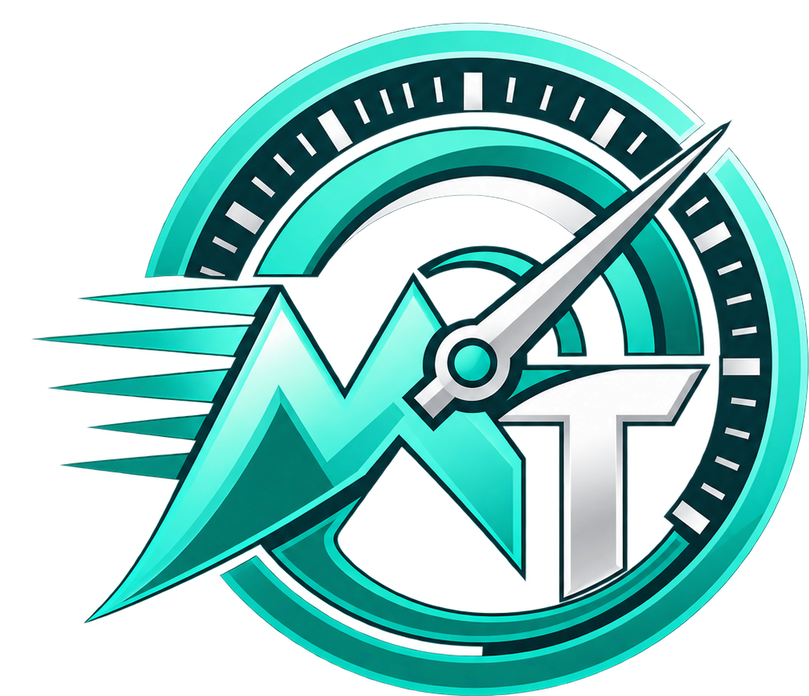
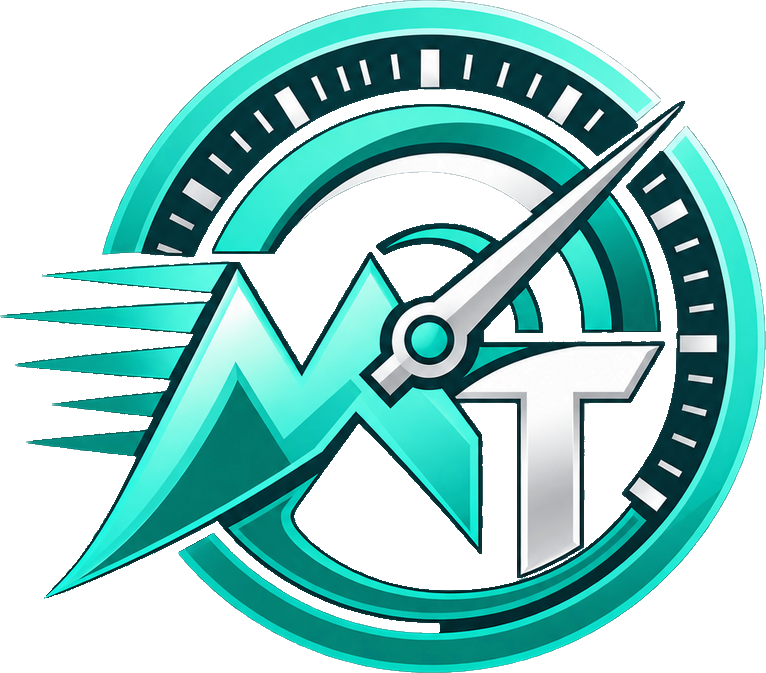
fix(web): use MQTiTan spelling and two-tone wordmark
Spell the product MQTiTan in user-facing text, color the sidebar wordmark
teal/silver to match the logo, strip halo artifacts from the logo PNGs,
and let the favicon fill the tab.

diff --git a/web/src/App.tsx b/web/src/App.tsx
@@ -2202,7 +2202,12 @@ function Shell() {
         <Link to="/" className="brand">
           <img className="brand-symbol" src="/emblem.png" alt="" />
           <span>
-            MQ<span className="brand-accent">Titan</span>
+            <span className="wordmark" aria-label="MQTiTan">
+              <span>MQT</span>
+              <span className="silver">i</span>
+              <span>T</span>
+              <span className="silver">an</span>
+            </span>
             <small>PERFORMANCE LAB</small>
           </span>
         </Link>
@@ -2293,7 +2298,7 @@ function Shell() {
         </main>
         <footer>
           <span>
-            MQTitan <span className="subdued">/ Engineered for scale.</span>
+            MQTiTan <span className="subdued">/ Engineered for scale.</span>
           </span>
           <span className="mono">MQTT 3.1.1 · MQTT 5.0</span>
         </footer>
@@ -2334,7 +2339,7 @@ function PageContent({
     const page = path.startsWith("/tests/")
       ? "Test"
       : nav.find(([, to]) => to === path)?.[0] || "Dashboard";
-    document.title = `${page} · MQTitan`;
+    document.title = `${page} · MQTiTan`;
   }, [path]);
   if (path.startsWith("/tests/") && path.split("/")[2])
     return <TestDetail id={decodeURIComponent(path.split("/")[2])} />;

diff --git a/web/index.html b/web/index.html
@@ -1,1 +1,1 @@
-<!doctype html><html lang="en"><head><meta charset="UTF-8"/><meta name="viewport" content="width=device-width, initial-scale=1.0"/><meta name="theme-color" content="#0b1215"/><link rel="icon" href="/favicon.ico" sizes="any"/><link rel="icon" type="image/png" sizes="32x32" href="/favicon-32.png"/><link rel="icon" type="image/png" sizes="16x16" href="/favicon-16.png"/><link rel="apple-touch-icon" href="/apple-touch-icon.png"/><link rel="manifest" href="/site.webmanifest"/><title>MQTitan · MQTT performance lab</title></head><body><div id="root"></div><script type="module" src="/src/main.tsx"></script></body></html>
+<!doctype html><html lang="en"><head><meta charset="UTF-8"/><meta name="viewport" content="width=device-width, initial-scale=1.0"/><meta name="theme-color" content="#0b1215"/><link rel="icon" href="/favicon.ico" sizes="any"/><link rel="icon" type="image/png" sizes="32x32" href="/favicon-32.png"/><link rel="icon" type="image/png" sizes="16x16" href="/favicon-16.png"/><link rel="apple-touch-icon" href="/apple-touch-icon.png"/><link rel="manifest" href="/site.webmanifest"/><title>MQTiTan · MQTT performance lab</title></head><body><div id="root"></div><script type="module" src="/src/main.tsx"></script></body></html>

diff --git a/web/fallback/index.html b/web/fallback/index.html
@@ -1,4 +1,4 @@
-<!doctype html><html lang="en"><meta charset="utf-8"><meta name="viewport" content="width=device-width,initial-scale=1"><title>MQTitan · Frontend build required</title><style>body{font:16px system-ui;background:#0c1215;color:#dce6e9;max-width:620px;margin:12vh auto;padding:25px}h1{color:#39c7b0}p{color:#83969f;line-height:1.7}pre{padding:20px;background:#172228;border:1px solid #253139;border-radius:5px;line-height:1.8}</style><h1>MQTitan</h1><p>The API is running. Build the performance lab frontend, then rebuild or restart the server to include its assets.</p><pre>cd web
+<!doctype html><html lang="en"><meta charset="utf-8"><meta name="viewport" content="width=device-width,initial-scale=1"><title>MQTiTan · Frontend build required</title><style>body{font:16px system-ui;background:#0c1215;color:#dce6e9;max-width:620px;margin:12vh auto;padding:25px}h1{color:#39c7b0}p{color:#83969f;line-height:1.7}pre{padding:20px;background:#172228;border:1px solid #253139;border-radius:5px;line-height:1.8}</style><h1>MQTiTan</h1><p>The API is running. Build the performance lab frontend, then rebuild or restart the server to include its assets.</p><pre>cd web
 npm ci
 npm run build
 cd ..

diff --git a/web/src/styles.css b/web/src/styles.css
@@ -12,6 +12,7 @@
   --text: #dce6e9;
   --muted: #97a9b3;
   --teal: #39c7b0;
+  --silver: #d3dadd;
   --amber: #e4b467;
   --field: #0c1418;
   --hover: #1b282e;
@@ -208,8 +209,11 @@ pre,
   color: var(--muted);
   margin-top: 4px;
 }
-.brand-accent {
+.wordmark {
   color: var(--teal);
+}
+.wordmark .silver {
+  color: var(--silver);
 }
 .workspace {
   display: flex;
@@ -635,6 +639,7 @@ nav a.active:before {
 }
 [data-theme="light"] {
   --teal: #087b69;
+  --silver: #8d999f;
   --muted: #526871;
 }
 [data-theme="light"] button.primary {

diff --git a/internal/api/manager.go b/internal/api/manager.go
@@ -514,4 +514,4 @@ func (m *Manager) RawScenario(id string) (string, error) {
 	}
 	return s.YAML, nil
 }
-func (m *Manager) Description() string { return fmt.Sprintf("MQTTitan controller") }
+func (m *Manager) Description() string { return fmt.Sprintf("MQTiTan controller") }

diff --git a/cmd/mqtitan/server.go b/cmd/mqtitan/server.go
@@ -129,7 +129,7 @@ func serve(args []string) error {
 		return err
 	}
 	defer l.Close()
-	fmt.Printf("MQTTitan controller: http://%s\n", l.address)
+	fmt.Printf("MQTiTan controller: http://%s\n", l.address)
 	ctx, cancel := signalContext()
 	defer cancel()
 	select {

diff --git a/README.md b/README.md
@@ -1,12 +1,12 @@
 <p align="center">
-  <img src="docs/brand/mqtitan-logo-horizontal.png" alt="MQTitan" width="480">
+  <img src="docs/brand/mqtitan-logo-horizontal.png" alt="MQTiTan" width="480">
 </p>
 
-# MQTTitan
+# MQTiTan
 
-![MQTTitan dashboard during a live run](docs/images/dashboard.png)
+![MQTiTan dashboard during a live run](docs/images/dashboard.png)
 
-MQTTitan is an open-source MQTT load-testing platform for EMQX and standards-compatible brokers, with a Go CLI/controller and a React operations dashboard. This is a working engineering preview, not a certified production release.
+MQTiTan is an open-source MQTT load-testing platform for EMQX and standards-compatible brokers, with a Go CLI/controller and a React operations dashboard. This is a working engineering preview, not a certified production release.
 
 ## Quick start
 

diff --git a/docs/kubernetes.md b/docs/kubernetes.md
@@ -1,6 +1,6 @@
 # Kubernetes with Helm
 
-This guide deploys MQTTitan, not an EMQX cluster. You need a reachable MQTT broker, Docker/image-registry access, kubectl configured for your cluster, Helm 3, a persistent-volume provisioner, and a CNI that enforces NetworkPolicy. Run commands from the repository root.
+This guide deploys MQTiTan, not an EMQX cluster. You need a reachable MQTT broker, Docker/image-registry access, kubectl configured for your cluster, Helm 3, a persistent-volume provisioner, and a CNI that enforces NetworkPolicy. Run commands from the repository root.
 
 The preview uses one SQLite controller. Do not add controller replicas or share its database with another controller. Workers scale independently, but worker autoscaling and transparent failover are not implemented.
 

diff --git a/docs/README.md b/docs/README.md
@@ -1,6 +1,6 @@
 # Documentation
 
-MQTTitan is an engineering preview. Deployment manifests and large scenarios are starting points for qualification, not proof of production capacity.
+MQTiTan is an engineering preview. Deployment manifests and large scenarios are starting points for qualification, not proof of production capacity.
 
 | Task | Guide |
 | --- | --- |

diff --git a/docs/superpowers/plans/2026-10-04-platform.md b/docs/superpowers/plans/2026-10-04-platform.md
@@ -1,4 +1,4 @@
-# MQTTitan platform implementation plan
+# MQTiTan platform implementation plan
 
 **Goal:** Deliver a runnable MQTT platform whose CLI and UI operate the same persisted tests, with distributed execution and CI verdicts.
 
